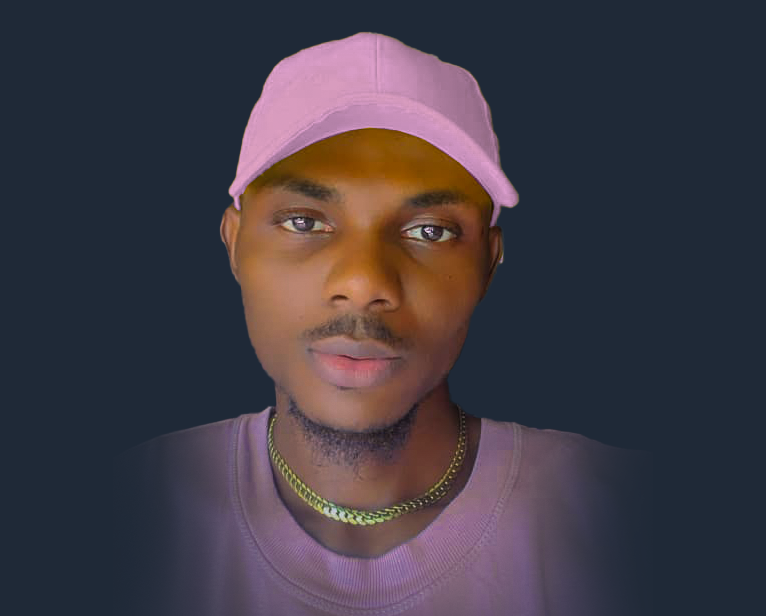
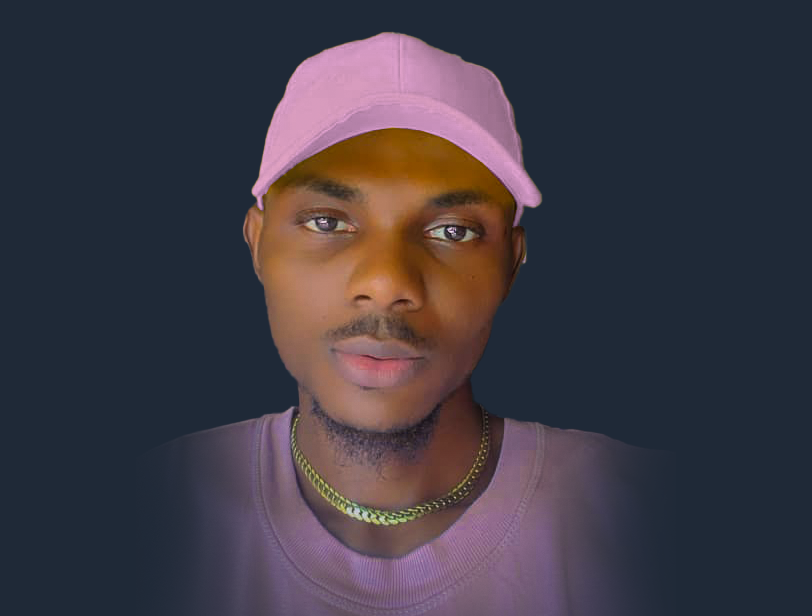
remove our team div

diff --git a/public/index.html b/public/index.html
@@ -1071,7 +1071,14 @@
                 <p
                   id="about-text"
                   class="text-balance max-w-2xl text-center lg:text-left text-neutral-300 leading-7 font-extralight tracking-wide text-[.7rem] lg:text-[.9rem]"
-                ></p>
+                >
+                  Founded in 2022, Quiver is a multidisciplinary design
+                  collective focused on product design, branding, and
+                  interactive experiences. We create thoughtful, purpose-driven
+                  work that resonates with users, builds meaningful connections,
+                  and delivers results with clarity, precision, and emotional
+                  impact.
+                </p>
               </div>
               <div>
                 <img
@@ -1112,190 +1119,6 @@
               </div>
             </div>
           </div>
-
-          <div class="scroll-fade flex flex-col gap-y-10">
-            <h3
-              class="h3-services max-w-2xl text-center self-start lg:text-left text-balance text-xl sm:text-2xl lg:text-3xl font-normal leading-6 text-neutral-200 tracking-wide"
-            >
-              Our Team
-            </h3>
-            <div
-              class="px-1 grid grid-cols-2 lg:grid-cols-4 gap-6 portfolio-div"
-              data-category="graphics"
-            >
-              <!-- Card 1 -->
-              <div class="portfolio-card rounded-4xl overflow-y-hidden">
-                <div class="relative">
-                  <img
-                    src="images/mj.png"
-                    class="w-full h-64 object-cover object-top"
-                    draggable="false"
-                  />
-                </div>
-                <div class="p-5 flex items-center flex-col">
-                  <h3
-                    class="h3-services max-w-2xl text-center lg:text-left text-balance text-xl sm:text-2xl mb-3 font-normal leading-6 text-neutral-200 tracking-wide"
-                  >
-                    Micah Miracle
-                  </h3>
-                  <p
-                    class="text-balance max-w-2xl text-center lg:text-left text-neutral-300 leading-7 font-extralight tracking-wide text-[.7rem] lg:text-[.9rem] mb-4"
-                  >
-                    Creative Director
-                  </p>
-                  <div class="flex items-center">
-                    <div class="flex gap-3">
-                      <a
-                        href="#"
-                        class="w-8 h-8 flex items-center justify-center rounded-full bg-gray-800"
-                      >
-                        <i class="ri-instagram-line text-"
-                          ><img src="images/instagram.png" class="w-4"
-                        /></i>
-                      </a>
-                      <a
-                        href="#"
-                        class="w-8 h-8 flex items-center justify-center rounded-full bg-gray-800"
-                      >
-                        <i class="ri-behance-line text-blue-100"
-                          ><img src="images/behance.png" class="w-4"
-                        /></i>
-                      </a>
-                    </div>
-                  </div>
-                </div>
-              </div>
-
-              <!-- Card 2 -->
-              <div class="portfolio-card rounded-4xl overflow-y-hidden">
-                <div class="relative">
-                  <img
-                    src="images/isaac.png"
-                    class="w-full h-64 object-cover object-top"
-                    draggable="false"
-                  />
-                </div>
-                <div class="p-5 flex items-center flex-col">
-                  <h3
-                    class="h3-services max-w-2xl text-center lg:text-left text-balance text-xl sm:text-2xl mb-3 font-normal leading-6 text-neutral-200 tracking-wide"
-                  >
-                    Isaac Dike
-                  </h3>
-                  <p
-                    class="text-balance max-w-2xl text-center lg:text-left text-neutral-300 leading-7 font-extralight tracking-wide text-[.7rem] lg:text-[.9rem] mb-4"
-                  >
-                    Backend Developer
-                  </p>
-                  <div class="flex items-center">
-                    <div class="flex gap-3">
-                      <a
-                        href="#"
-                        class="w-8 h-8 flex items-center justify-center rounded-full bg-gray-800"
-                      >
-                        <i class="ri-instagram-line text-"
-                          ><img src="images/instagram.png" class="w-4"
-                        /></i>
-                      </a>
-                      <a
-                        href="#"
-                        class="w-8 h-8 flex items-center justify-center rounded-full bg-gray-800"
-                      >
-                        <i class="ri-behance-line text-blue-100"
-                          ><img src="images/behance.png" class="w-4"
-                        /></i>
-                      </a>
-                    </div>
-                  </div>
-                </div>
-              </div>
-
-              <!-- Card 3 -->
-              <div class="portfolio-card rounded-4xl overflow-y-hidden">
-                <div class="relative">
-                  <img
-                    src="images/okosa.png"
-                    class="w-full h-64 object-cover object-top"
-                    draggable="false"
-                  />
-                </div>
-                <div class="p-5 flex items-center flex-col">
-                  <h3
-                    class="h3-services max-w-2xl text-center lg:text-left text-balance text-xl sm:text-2xl mb-3 font-normal leading-6 text-neutral-200 tracking-wide"
-                  >
-                    Joshua Okosa
-                  </h3>
-                  <p
-                    class="text-balance max-w-2xl text-center lg:text-left text-neutral-300 leading-7 font-extralight tracking-wide text-[.7rem] lg:text-[.9rem] mb-4"
-                  >
-                    Frontend Engineer
-                  </p>
-                  <div class="flex items-center">
-                    <div class="flex gap-3">
-                      <a
-                        href="#"
-                        class="w-8 h-8 flex items-center justify-center rounded-full bg-gray-800"
-                      >
-                        <i class="ri-instagram-line text-"
-                          ><img src="images/instagram.png" class="w-4"
-                        /></i>
-                      </a>
-                      <a
-                        href="#"
-                        class="w-8 h-8 flex items-center justify-center rounded-full bg-gray-800"
-                      >
-                        <i class="ri-behance-line text-blue-100"
-                          ><img src="images/behance.png" class="w-4"
-                        /></i>
-                      </a>
-                    </div>
-                  </div>
-                </div>
-              </div>
-
-              <!-- Card 4 -->
-              <div class="portfolio-card rounded-4xl overflow-y-hidden">
-                <div class="relative">
-                  <img
-                    src="images/david.png"
-                    class="w-full h-64 object-cover object-top"
-                    draggable="false"
-                  />
-                </div>
-                <div class="p-5 flex items-center flex-col">
-                  <h3
-                    class="h3-services max-w-2xl text-center lg:text-left text-balance text-xl sm:text-2xl mb-3 font-normal leading-6 text-neutral-200 tracking-wide"
-                  >
-                    David Williams
-                  </h3>
-                  <p
-                    class="text-balance max-w-2xl text-center lg:text-left text-neutral-300 leading-7 font-extralight tracking-wide text-[.7rem] lg:text-[.9rem] mb-4"
-                  >
-                    Product Strategist
-                  </p>
-                  <div class="flex items-center">
-                    <div class="flex gap-3">
-                      <a
-                        href="#"
-                        class="w-8 h-8 flex items-center justify-center rounded-full bg-gray-800"
-                      >
-                        <i class="ri-instagram-line text-"
-                          ><img src="images/instagram.png" class="w-4"
-                        /></i>
-                      </a>
-                      <a
-                        href="#"
-                        class="w-8 h-8 flex items-center justify-center rounded-full bg-gray-800"
-                      >
-                        <i class="ri-behance-line text-blue-100"
-                          ><img src="images/behance.png" class="w-4"
-                        /></i>
-                      </a>
-                    </div>
-                  </div>
-                </div>
-              </div>
-            </div>
-          </div>
         </div>
       </section>
 
@@ -1329,7 +1152,7 @@
       </section>
     </main>
 
-    <footer class="pt-30 pb-10 flex items-center flex-col">
+    <footer class="pt-20 lg:pt-30 pb-10 flex items-center flex-col">
       <div
         class="max-w-[1600px] flex items-center justify-between w-full px-6 m-auto"
       >

diff --git a/public/index.js b/public/index.js
@@ -105,26 +105,42 @@ $(document).ready(function () {
   });
 
   function typingEffect(element, text, speed) {
-    let i = 0;
-    let timer = setInterval(() => {
-      element.html(text.substring(0, i) + '<span class="cursor">|</span>');
-      i++;
-      if (i > text.length) {
-        clearInterval(timer);
-        element.html(text); // final text without cursor
-      }
-    }, speed);
-  }
+  let i = 0;
+  let timer = setInterval(() => {
+    element.html(text.substring(0, i) + '<span class="cursor">|</span>');
+    i++;
+    if (i > text.length) {
+      clearInterval(timer);
+      element.html(text); // final text without cursor
+    }
+  }, speed);
+}
 
-  const aboutText =
-    "Founded in 2022, Quiver is a multidisciplinary design collective focused on product design, branding, and interactive experiences. We create thoughtful, purpose-driven work that resonates with users, builds meaningful connections, and delivers results with clarity, precision, and emotional impact.";
+$(function () {
+  const observer = new IntersectionObserver(
+    (entries) => {
+      entries.forEach((entry) => {
+        if (entry.isIntersecting) {
+          const el = $(entry.target);
+          const text = el.data("text"); // 👈 pull text from data attribute
+          typingEffect(el, text, 100);
+          observer.unobserve(entry.target); // run once
+        }
+      });
+    },
+    { threshold: 0.2 } // 👈 only when 20% of element is in viewport
+  );
 
-  typingEffect($("#about-text"), aboutText, 100);
+  // Attach observer to the elements
+  $("#about-text, #about-text2").each(function () {
+    const el = $(this);
+    // store text inside data-text so element is empty before animation
+    el.data("text", el.text());
+    el.text(""); // clear text initially
+    observer.observe(this);
+  });
+});
 
-  const aboutText2 =
-    "We design digital experiences rooted in emotion and clarity. Our process merges art and logic, ensuring every interaction is intentional. Before code, we uncover purpose. With minimalism as our lens, we craft interfaces that are fast, meaningful, and beautiful—built to elevate brands and resonate deeply with their audiences.";
-
-  typingEffect($("#about-text2"), aboutText2, 100);
 
   function animateSkill($skill) {
     const $number = $skill.find(".number");

diff --git a/public/style.css b/public/style.css
@@ -195,6 +195,9 @@
   }
 }
 @layer utilities {
+  .visible {
+    visibility: visible;
+  }
   .relative {
     position: relative;
   }
